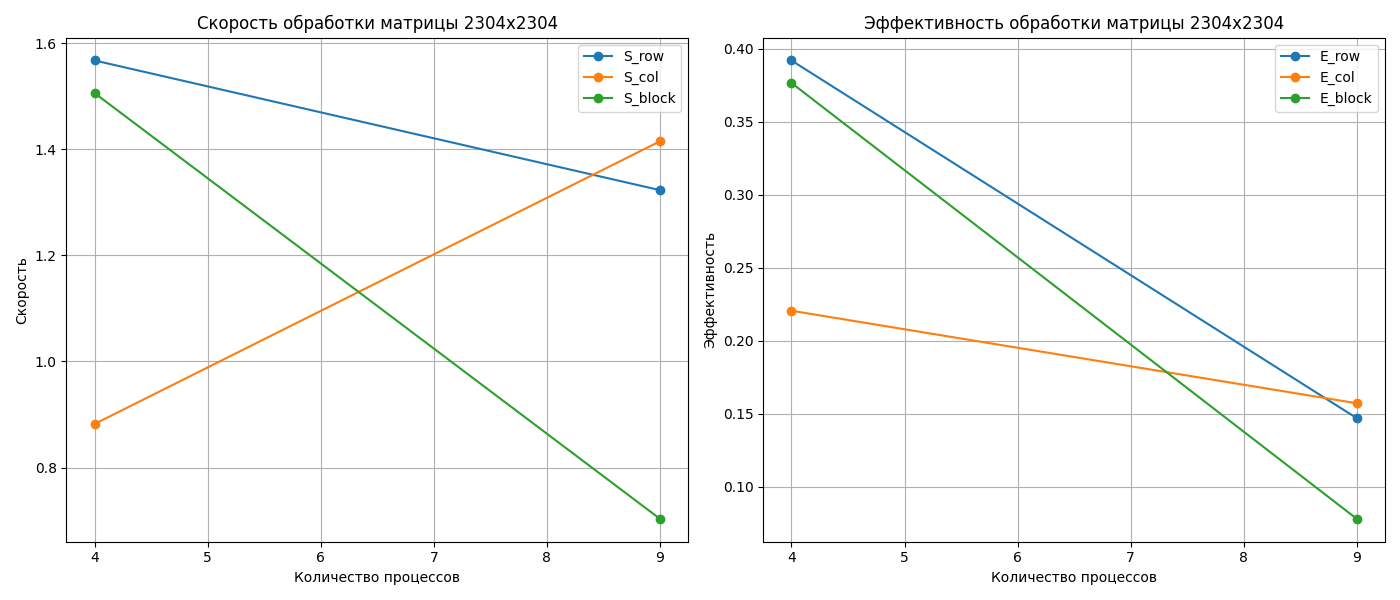
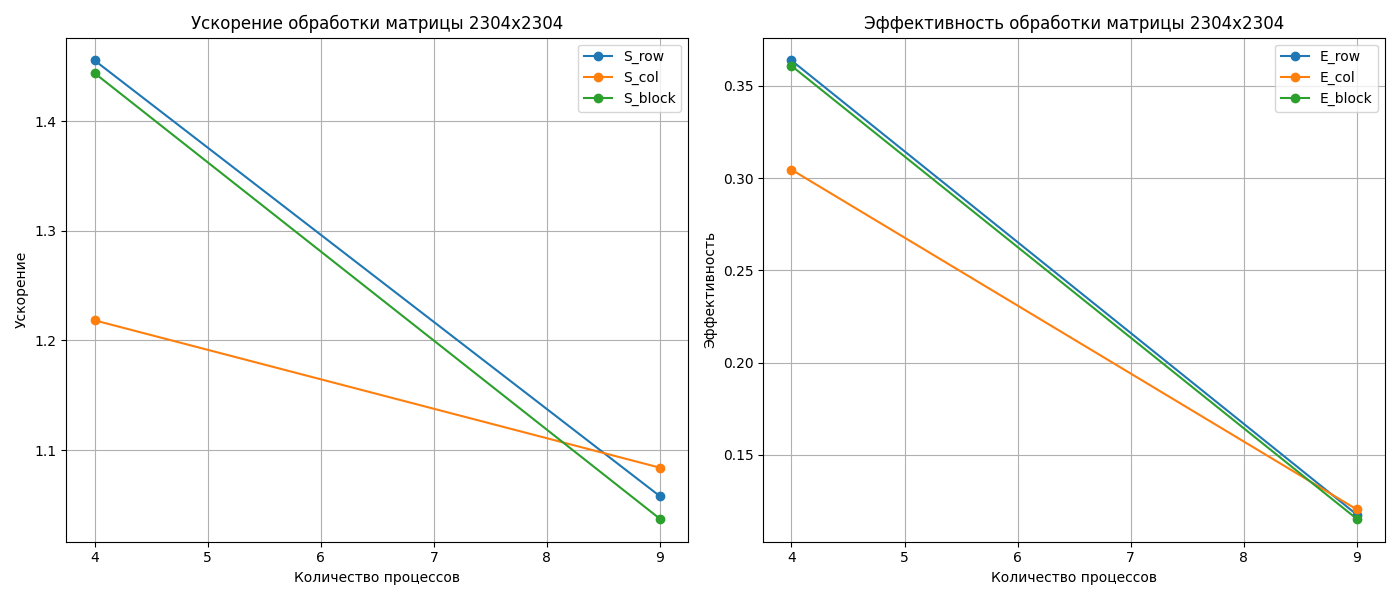
new benchmarks

diff --git a/utils/matmul_split_metrics.py b/utils/matmul_split_metrics.py
@@ -5,13 +5,13 @@ import tqdm
 from markdown_table import MarkdownTable
 import numpy as np
 
-ROOT_DIR = os.path.abspath('..')
+ROOT_DIR = os.path.abspath('.')
 
 def run_mpi_program(num_processes, matrix_size, num_runs=100):
     result = {"row_split": [], "col_split": [], "block_split": []}
     
     try:
-        for _ in range(num_runs):
+        for _ in tqdm.trange(num_runs):
             for prog_name in ["matmul_row.o", "matmul_col.o", "matmul_chess.o"]:
                 output = subprocess.run(
                     ["mpirun", "-np", str(num_processes), ROOT_DIR + "/src/task1/" + prog_name, str(matrix_size)],
@@ -30,11 +30,10 @@ def run_mpi_program(num_processes, matrix_size, num_runs=100):
     except Exception as e:
         print(f"Error running MPI program with {num_processes} processes: {e}")
 
-    # Calculate average timings for each split
     return {
-        "row_split": np.mean(result["row_split"]) if result["row_split"] else float('inf'),
-        "col_split": np.mean(result["col_split"]) if result["col_split"] else float('inf'),
-        "block_split": np.mean(result["block_split"]) if result["block_split"] else float('inf')
+        "row_split": np.mean(result["row_split"]).item() if result["row_split"] else float('inf'),
+        "col_split": np.mean(result["col_split"]).item() if result["col_split"] else float('inf'),
+        "block_split": np.mean(result["block_split"]).item() if result["block_split"] else float('inf')
     }
 
 def get_S_E(t_1, t_n, n):
@@ -94,6 +93,7 @@ def plot_matrix_performance(data, save_path):
 def main() -> None:
     matrix_sizes = [576, 2304, 3636]
     num_processes = [1, 4, 9]
+    NUM_RUNS = 100
 
     os.makedirs(f'{ROOT_DIR}/src/task1/task_1_benchmark', exist_ok=True)
     for size in matrix_sizes:
@@ -112,7 +112,7 @@ def main() -> None:
                 'Разбиение на блоки (S, E)']
         )
         for processes in tqdm.tqdm(num_processes, desc=f'[Size={size}]'):
-            result = run_mpi_program(processes, size, num_runs=100)
+            result = run_mpi_program(processes, size, num_runs=NUM_RUNS)
 
             if processes == 1:
                 S_row = E_row = '-'

diff --git a/utils/cannon_matmul_metrics.py b/utils/cannon_matmul_metrics.py
@@ -4,7 +4,7 @@ import os
 import tqdm
 from markdown_table import MarkdownTable
 
-ROOT_DIR = os.path.abspath('..')
+ROOT_DIR = os.path.abspath('.')
 
 def run_mpi_program(num_processes):
     output = subprocess.run(

diff --git a/src/task1/task_1_benchmark/size=2304/table.md b/src/task1/task_1_benchmark/size=2304/table.md
@@ -1,5 +1,5 @@
 |  Размер матрицы **A**  |  Количество процессов **P**  |  Разбиение по строкам (S, E)  |  Разбиение по столбцам (S, E)  |  Разбиение на блоки (S, E)  |
 | :---: | :---: | :---: | :---: | :---: |
 |  2304x2304  |  1  |  ('-', '-')  |  ('-', '-')  |  ('-', '-')  |
-|  2304x2304  |  4  |  (1.5672, 0.3918)  |  (0.8822, 0.2205)  |  (1.5056, 0.3764)  |
-|  2304x2304  |  9  |  (1.3228, 0.147)  |  (1.4149, 0.1572)  |  (0.7033, 0.0781)  |
+|  2304x2304  |  4  |  (1.4552, 0.3638)  |  (1.2183, 0.3046)  |  (1.4436, 0.3609)  |
+|  2304x2304  |  9  |  (1.058, 0.1176)  |  (1.084, 0.1204)  |  (1.0374, 0.1153)  |

diff --git a/src/task1/task_1_benchmark/size=3636/table.md b/src/task1/task_1_benchmark/size=3636/table.md
@@ -1,5 +1,5 @@
 |  Размер матрицы **A**  |  Количество процессов **P**  |  Разбиение по строкам (S, E)  |  Разбиение по столбцам (S, E)  |  Разбиение на блоки (S, E)  |
 | :---: | :---: | :---: | :---: | :---: |
 |  3636x3636  |  1  |  ('-', '-')  |  ('-', '-')  |  ('-', '-')  |
-|  3636x3636  |  4  |  (2.6585, 0.6646)  |  (1.2394, 0.3099)  |  (2.215, 0.5537)  |
-|  3636x3636  |  9  |  (1.57, 0.1744)  |  (1.2008, 0.1334)  |  (1.3362, 0.1485)  |
+|  3636x3636  |  4  |  (1.5826, 0.3957)  |  (1.1582, 0.2895)  |  (1.3562, 0.3391)  |
+|  3636x3636  |  9  |  (1.4305, 0.1589)  |  (1.2432, 0.1381)  |  (1.2468, 0.1385)  |

diff --git a/src/task1/task_1_benchmark/size=576/table.md b/src/task1/task_1_benchmark/size=576/table.md
@@ -1,5 +1,5 @@
 |  Размер матрицы **A**  |  Количество процессов **P**  |  Разбиение по строкам (S, E)  |  Разбиение по столбцам (S, E)  |  Разбиение на блоки (S, E)  |
 | :---: | :---: | :---: | :---: | :---: |
 |  576x576  |  1  |  ('-', '-')  |  ('-', '-')  |  ('-', '-')  |
-|  576x576  |  4  |  (1.3719, 0.343)  |  (0.0728, 0.0182)  |  (0.3145, 0.0786)  |
-|  576x576  |  9  |  (0.0236, 0.0026)  |  (0.0255, 0.0028)  |  (0.104, 0.0116)  |
+|  576x576  |  4  |  (0.6698, 0.1674)  |  (0.6889, 0.1722)  |  (0.7853, 0.1963)  |
+|  576x576  |  9  |  (0.2456, 0.0273)  |  (0.3364, 0.0374)  |  (0.2954, 0.0328)  |

diff --git a/src/task1/report_task_1.md b/src/task1/report_task_1.md
@@ -60,6 +60,3 @@
 ![](task_1_benchmark/size=3636/plot.png)
 
 ## Выводы по заданию 1  
-
-- Алгоритм с разбиением по строкам наиболее эффективен для небольших матриц.  
-- Разбиение на блоки показывает преимущество при увеличении числа процессов и размеров данных.

diff --git a/src/task2/report_task_2.md b/src/task2/report_task_2.md
@@ -70,5 +70,3 @@
 ![](task_2_benchmark/size=2664/plot.png)
 
 ## Выводы по заданию 2  
-- Алгоритм Кэннона эффективно масштабируется при увеличении числа процессов на больших данных.  
-- При малых данных и большом количестве процессов эффективность падает.

diff --git a/src/task2/task_2_benchmark/size=1224/table.md b/src/task2/task_2_benchmark/size=1224/table.md
@@ -1,5 +1,5 @@
 |  Размер матрицы **A**  |  Количество процессов **P**  |  **S**  |  **E**  |
 | :---: | :---: | :---: | :---: |
 |  1224x1224  |  1  |  -  |  -  |
-|  1224x1224  |  4  |  4.2852  |  1.0713  |
-|  1224x1224  |  9  |  7.1493  |  0.7944  |
+|  1224x1224  |  4  |  4.5167  |  1.1292  |
+|  1224x1224  |  9  |  8.3624  |  0.9292  |

diff --git a/src/task2/task_2_benchmark/size=504/table.md b/src/task2/task_2_benchmark/size=504/table.md
@@ -1,5 +1,5 @@
 |  Размер матрицы **A**  |  Количество процессов **P**  |  **S**  |  **E**  |
 | :---: | :---: | :---: | :---: |
 |  504x504  |  1  |  -  |  -  |
-|  504x504  |  4  |  3.2371  |  0.8093  |
-|  504x504  |  9  |  2.795  |  0.3106  |
+|  504x504  |  4  |  3.8333  |  0.9583  |
+|  504x504  |  9  |  5.4116  |  0.6013  |
